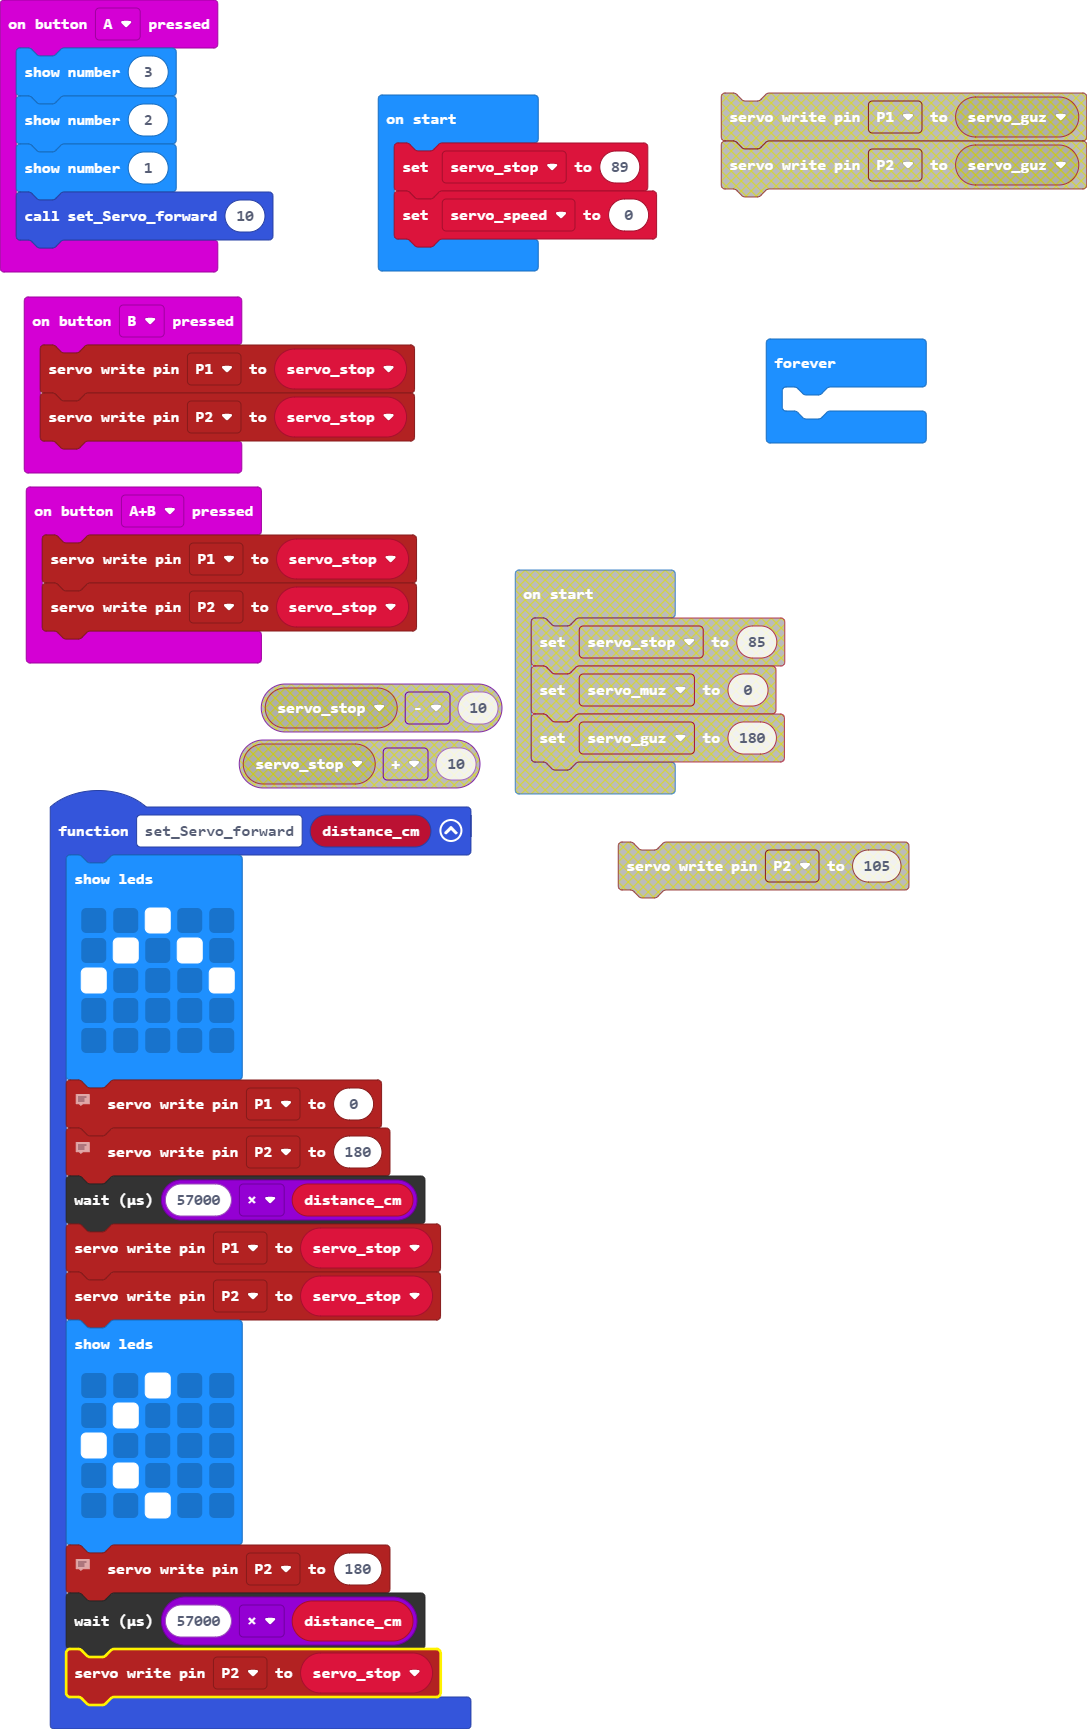
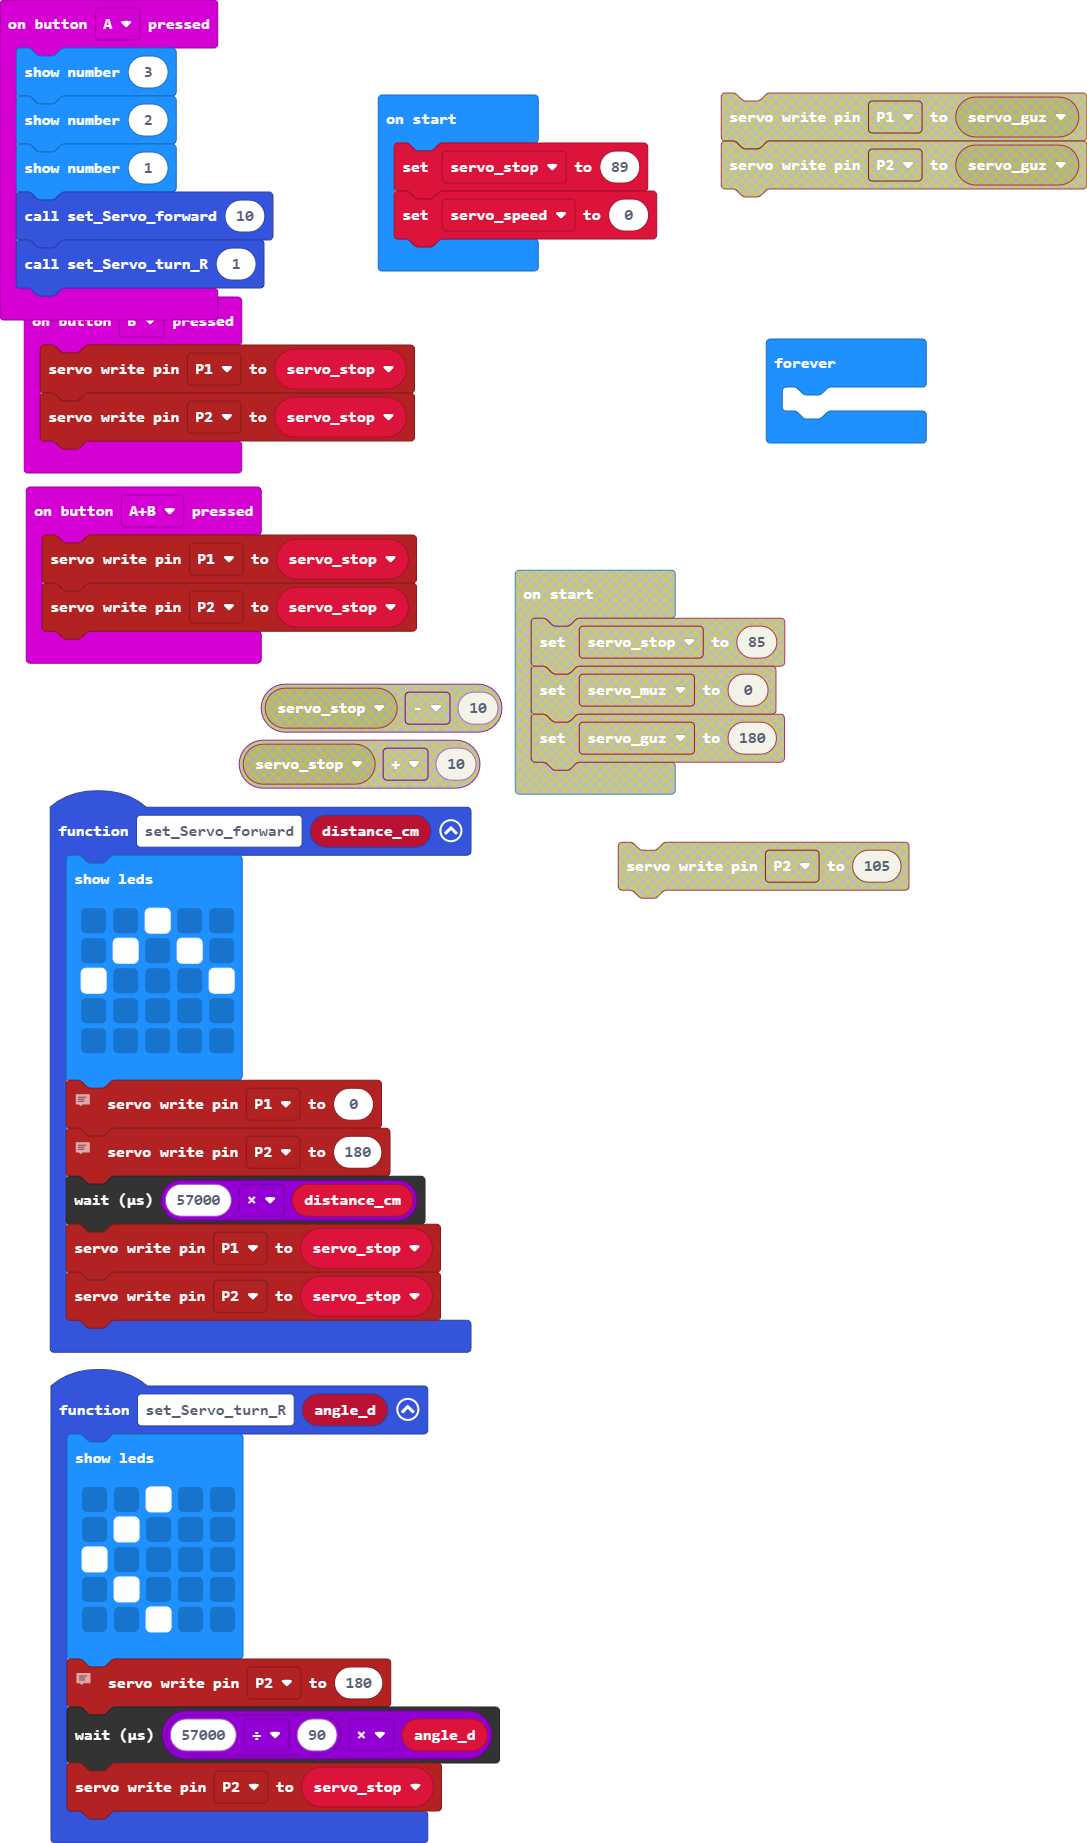
Update main.blocks, main.ts

diff --git a/main.ts b/main.ts
@@ -13,6 +13,8 @@ function set_Servo_forward (distance_cm: number) {
     control.waitMicros(57000 * distance_cm)
     pins.servoWritePin(AnalogPin.P1, servo_stop)
     pins.servoWritePin(AnalogPin.P2, servo_stop)
+}
+function set_Servo_turn_R (angle_d: number) {
     basic.showLeds(`
         . . # . .
         . # . . .
@@ -22,7 +24,7 @@ function set_Servo_forward (distance_cm: number) {
         `)
     // Links in Fahrtrichtung
     pins.servoWritePin(AnalogPin.P2, 180)
-    control.waitMicros(57000 * distance_cm)
+    control.waitMicros(57000 / 90 * angle_d)
     pins.servoWritePin(AnalogPin.P2, servo_stop)
 }
 input.onButtonPressed(Button.A, function () {
@@ -30,6 +32,7 @@ input.onButtonPressed(Button.A, function () {
     basic.showNumber(2)
     basic.showNumber(1)
     set_Servo_forward(10)
+    set_Servo_turn_R(1)
 })
 input.onButtonPressed(Button.AB, function () {
     pins.servoWritePin(AnalogPin.P1, servo_stop)
